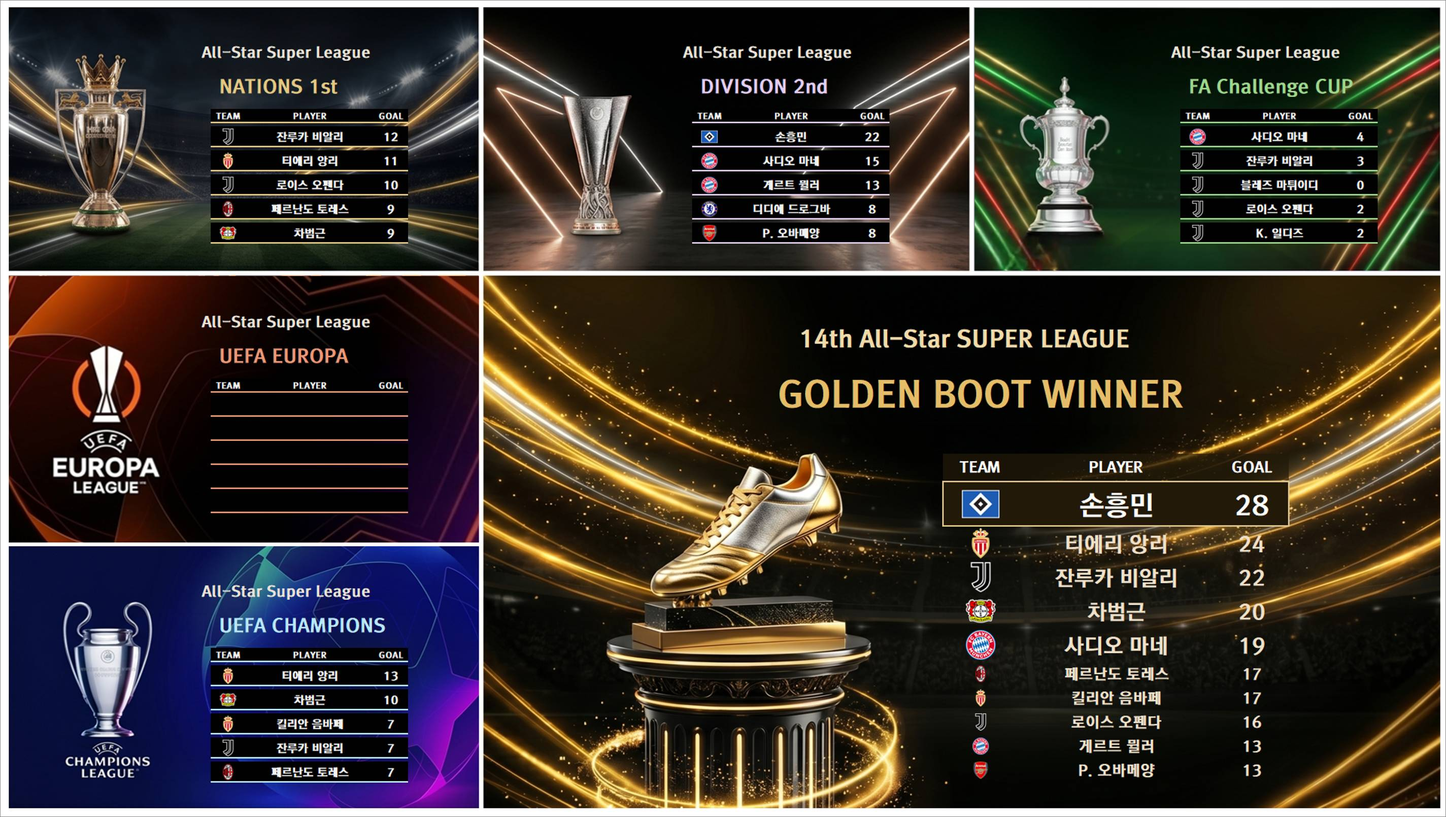
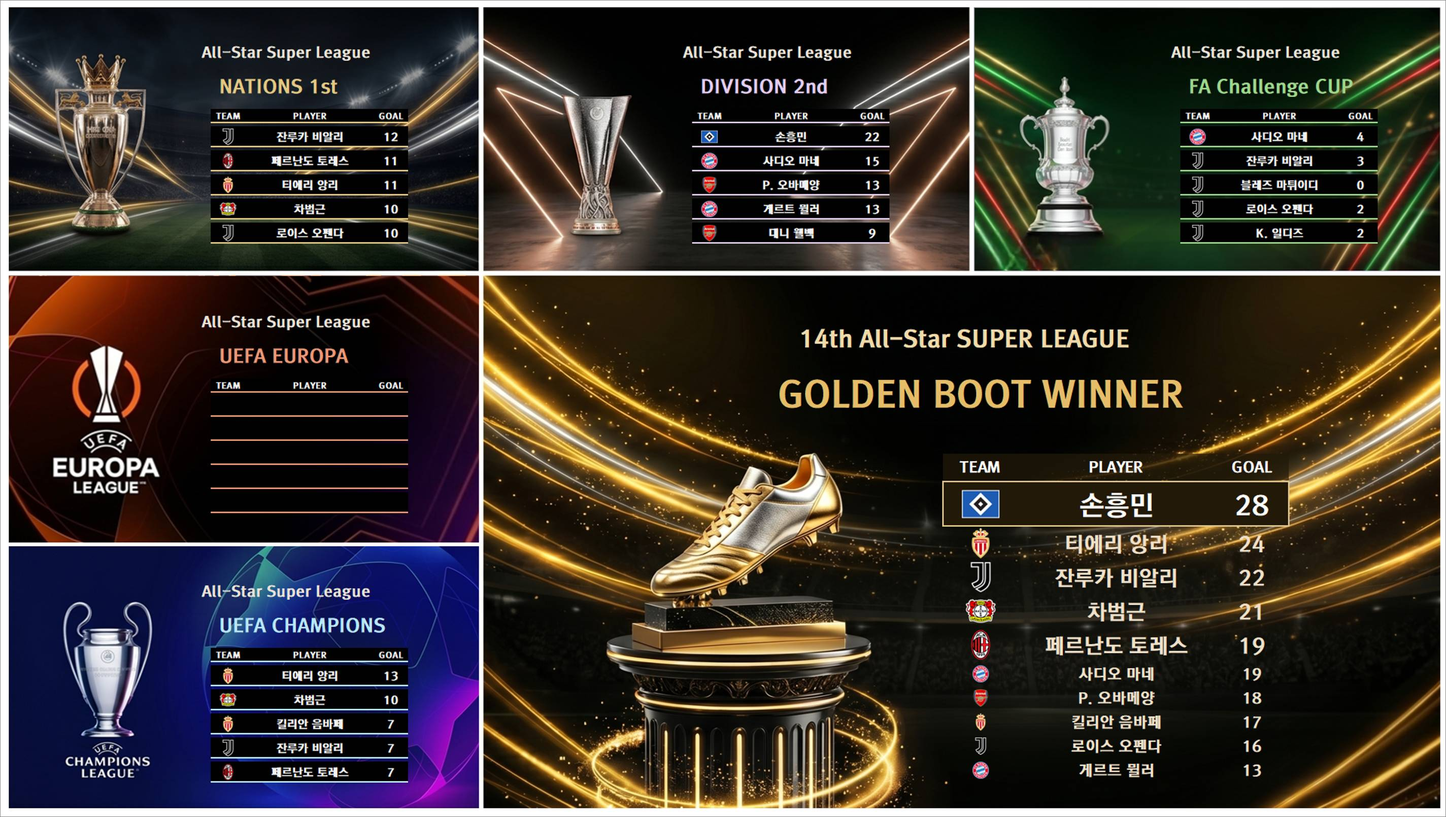
Optimize: 00:01:46

diff --git a/index.html b/index.html
@@ -67,13 +67,13 @@
     </div>
     
     <div class="container">
-        <div class="card"><h2>👑 GOLDEN BOOT</h2><img src="https://i.ibb.co/tpqRGkZ2/802d100d55a8.jpg" alt="득점왕"></div>
-        <div class="card"><h2>🥇 1부리그</h2><img src="https://i.ibb.co/zVVH91Yz/0263895bb18e.jpg" alt="1부 리그"></div>
-        <div class="card"><h2>🥈 2부리그</h2><img src="https://i.ibb.co/fdYkSPj1/442da99a00ee.jpg" alt="2부 리그"></div>
-        <div class="card"><h2>🏅 FA컵 토너먼트</h2><img src="https://i.ibb.co/1fq0Crg2/5753efa9cbc3.jpg" alt="FA컵"></div>
-        <div class="card"><h2>🌟 UCL 그룹스테이지</h2><img src="https://i.ibb.co/3ySYDTgZ/cf3ac5649e83.jpg" alt="UCL 조별"></div>
-        <div class="card"><h2>🏆 UCL 토너먼트</h2><img src="https://i.ibb.co/tTby8GkD/42288301e696.jpg" alt="UCL 토너"></div>
-        <div class="card"><h2>🎖 UEL 토너먼트</h2><img src="https://i.ibb.co/yFdqg24n/5c40a76e18ff.jpg" alt="UEL 토너"></div>
+        <div class="card"><h2>👑 GOLDEN BOOT</h2><img src="https://i.ibb.co/MD39SxJG/34ad1971ba5a.jpg" alt="득점왕"></div>
+        <div class="card"><h2>🥇 1부리그</h2><img src="https://i.ibb.co/qYV111ck/f03ab500f803.jpg" alt="1부 리그"></div>
+        <div class="card"><h2>🥈 2부리그</h2><img src="https://i.ibb.co/ZzpYnMd5/c465d23a2635.jpg" alt="2부 리그"></div>
+        <div class="card"><h2>🏅 FA컵 토너먼트</h2><img src="https://i.ibb.co/Wv0R4bz2/fb9f85b5ed51.jpg" alt="FA컵"></div>
+        <div class="card"><h2>🌟 UCL 그룹스테이지</h2><img src="https://i.ibb.co/MxhKmmPf/b0ceec5439e4.jpg" alt="UCL 조별"></div>
+        <div class="card"><h2>🏆 UCL 토너먼트</h2><img src="https://i.ibb.co/d8jmFnM/cf5d77bb94d0.jpg" alt="UCL 토너"></div>
+        <div class="card"><h2>🎖 UEL 토너먼트</h2><img src="https://i.ibb.co/3mSPDCbr/02fd3f427177.jpg" alt="UEL 토너"></div>
     </div>
     
     <footer>
